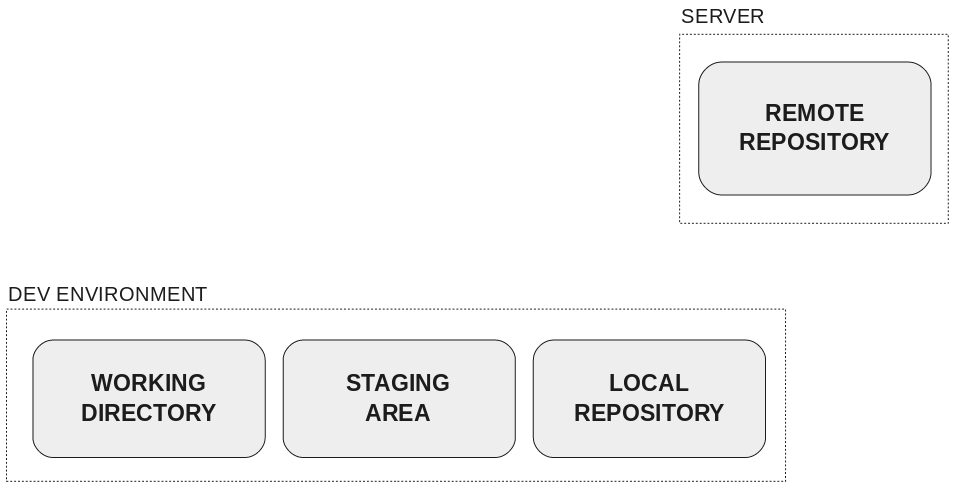
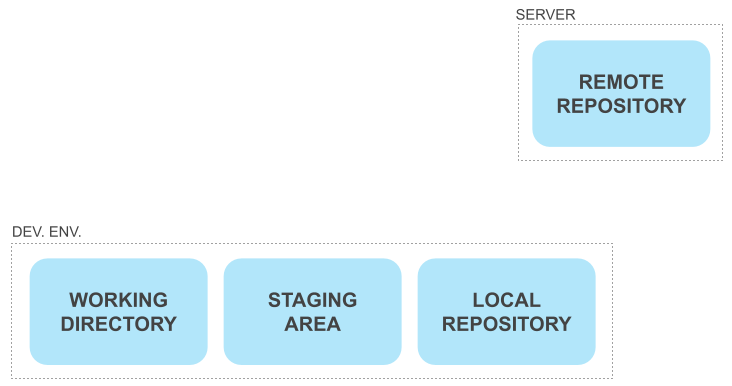
Update Git drawings and other fixes

diff --git a/_posts/2018-12-12-how-to-teach-git.md b/_posts/2018-12-12-how-to-teach-git.md
@@ -4,7 +4,7 @@ asset-type: post
 title: How to teach Git
 description: An alternative way to teach Git
 date: 2018-12-12 12:00:00 +00:00
-last_modified_at: 2019-06-27 12:00:00 +00:00
+last_modified_at: 2021-08-10 12:00:00 +00:00
 category: tools
 image:
    src: /img/cards/posts/how-to-teach-Git/cover.jpg
@@ -18,33 +18,35 @@ I found post-its on screens with 3 steps: first `add`, second `commit`, third `p
 
 ![](/img/cards/posts/how-to-teach-Git/post-it.png)
 
-They didn't know the reason why those steps. They only knew that they should follow them in order not to get into trouble. However, problems happened frequently, so I decided to prepare a workshop about Git.
+They didn't know the reason for those steps. They only knew that they should follow them in order not to get into trouble. However, problems happened frequently, so I decided to prepare a workshop about Git.
 
 ## The idea
 
-I love to have maps in my mind. I don't write "mind maps", because they are a well-known type of diagrams. Now I'm talking about having frames, structures or any kind of graphical representation in the mind. For example, I started learning addition by imagining dice in my mind.
+I love to have maps in my mind. I don't write "mind maps" because they are a well-known type of diagrams. Now I'm talking about having frames, structures or any kind of graphical representation in the mind. For example, I started learning addition by imagining dice in my mind.
 
-So I prepared some drawings. It's not necessary to be able to see the drawings to understand this post. I include an explanation for each of them, because of my awareness with accessibility.
+So I prepared some drawings. It's not necessary to be able to see the drawings to understand this post. I include an explanation for each of them because of my awareness of accessibility.
 
-Furthermore, in this case, it's very important to teach the vocabulary. Otherwise they won't understand the messages from Git. The drawings are a good way to introduce them that vocabulary.
+Furthermore, in this case, it's very important to teach the vocabulary. Otherwise, they won't understand the Git messages. The drawings are a good way to introduce them to that vocabulary.
 
 ## A distributed version control system
 
 ![](/img/cards/posts/how-to-teach-Git/general-drawing.png)
 
-The general drawing contains 4 areas distributed as follows:
-* The development environment with:
-    * Working directory
-    * Staging area or index
-    * Local repository
-* A server with:
-    * Remote repository
+The general drawing contains 4 areas distributed as follows.
+
+A **development environment** with:
+* Working directory
+* Staging area or index
+* Local repository
+
+A **server** with:
+* Remote repository
 
 At that time, you can explain the benefits of a distributed version control system.
 
 ## Cloning a repository
 
-![](https://raw.githubusercontent.com/rachelcarmena/how-to-teach/master/git/clone.png)
+![](/img/cards/posts/how-to-teach-Git/clone.png)
 
 When cloning a repository, the data from the remote repository travel to 2 areas:
 * Working directory
@@ -52,54 +54,57 @@ When cloning a repository, the data from the remote repository travel to 2 areas
 
 ## Making changes in the working directory
 
-![](https://raw.githubusercontent.com/rachelcarmena/how-to-teach/master/git/tracked-untracked.png)
+![](/img/cards/posts/how-to-teach-Git/tracked-untracked.png)
 
 There are 2 types of files in the working directory:
 
-* **Tracked**: files that Git knows about.
-* **Untracked**: files that have still not been added, so Git doesn't know about.
+* **Tracked**: Files that are known by Git.
+* **Untracked**: Files that have not yet been added, so they aren't known by Git.
 
 ## Updating the remote repository
 
-![](https://raw.githubusercontent.com/rachelcarmena/how-to-teach/master/git/add-commit-push.png)
+![](/img/cards/posts/how-to-teach-Git/add-commit-push.png)
 
-As changes are ready in the **working directory**, they must be added in the **staging area**. 
+As soon as changes are ready in the **working directory**, they must be added in the **staging area**. 
 
 When there is a set of changes with a single purpose in the **staging area**, it's the time to create a commit with a message about that purpose in the **local repository**.
 
-When there are one or several commits in the **local repository** ready to be shared with the rest of the world, they must be pushed to the **remote repository**.
+When there is one or several commits in the **local repository** that are ready to be shared with the rest of the world, they must be pushed to the **remote repository**.
 
 At that time, you can talk about the different states of a file in the development environment: **modified**, **staged** and **committed**.
 
-![](https://raw.githubusercontent.com/rachelcarmena/how-to-teach/master/git/states.png)
+![](/img/cards/posts/how-to-teach-Git/states.png)
 
 Furthermore, you can explain:
-* how to show the changes of a file in the **working directory**: `git diff`
-* how to show the changes of a file in the **staging area**: `git diff --staged`
-* how a file can be changed in the **working directory** after being added to the **staging area**
+* How to show the changes in the **working directory**: `git diff`.
+* How to show the changes in the **staging area**: `git diff --staged`.
+* How to show the changes in the **working directory** and the **staging area**: `git diff HEAD`.
+* How a file can be changed in the **working directory** after being added to the **staging area**.
 * etc.
 
 ## Updating the development environment
 
 ### Fetching
 
-![](https://raw.githubusercontent.com/rachelcarmena/how-to-teach/master/git/fetch.png)
+![](/img/cards/posts/how-to-teach-Git/fetch.png)
 
 When executing `git fetch`, the data from **remote repository** only travel to the **local repository**.
 
 ### Pulling
 
-![](https://raw.githubusercontent.com/rachelcarmena/how-to-teach/master/git/pull.png)
+![](/img/cards/posts/how-to-teach-Git/pull.png)
 
-When executing `git pull`, the data from **remote repository** travel to 2 areas:
-* To **local repository**: `fetch`
-* To **working directory**: `merge`
+When executing `git pull`, the data from **remote repository** travel to two areas:
+* To **local repository**: `fetch`.
+* To **working directory**: `merge`.
 
-If you take care the commit history, consider the use of `git pull --rebase`. 
+If you take care of the commit history, consider the use of `git pull --rebase`.
+
 Instead of `fetch + merge`, it consists of `fetch + rebase`. 
+
 Your local commits will be replayed and you won't see the known _diamond shape_ in commit history. 
 
-![](https://raw.githubusercontent.com/rachelcarmena/how-to-teach/master/git/pull-rebase.png)
+![](/img/cards/posts/how-to-teach-Git/pull-rebase.png)
 
 ## Next steps
 
@@ -134,7 +139,7 @@ Resources from [comments at Hacker News](https://news.ycombinator.com/item?id=18
 * [Git Immersion](http://gitimmersion.com)
 * [Udacity: How to Use Git and GitHub](https://eu.udacity.com/course/how-to-use-git-and-github--ud775#)
 
-After reading more [comments at Reddit](https://www.reddit.com/r/programming/comments/agko6r/how_to_teach_git/), I think that a more accurate title for this post would be **An idea to teach Git**, because it's only an idea that appeared in my head when learning Git by myself a few years ago with [Pro Git book](https://git-scm.com/book/en). This post is not a complete guide, only a starting point for trainers. I'm sure all of these resources will be very useful as well. Thanks!
+After reading more [comments at Reddit](https://www.reddit.com/r/programming/comments/agko6r/how_to_teach_git/), I think that a more accurate title for this post would be **An idea to teach Git**, because it's only an idea that appeared in my mind when learning Git by myself a few years ago with [Pro Git book](https://git-scm.com/book/en). This post is not a complete guide, only a starting point for trainers. I'm sure all of these resources will be very useful as well. Thanks!
 
 And thanks [Stuart Maxwell](https://stuartm.com) who shared this post at Hacker News and [u/cryptoz](https://www.reddit.com/user/cryptoz) who shared it at Reddit!
 
